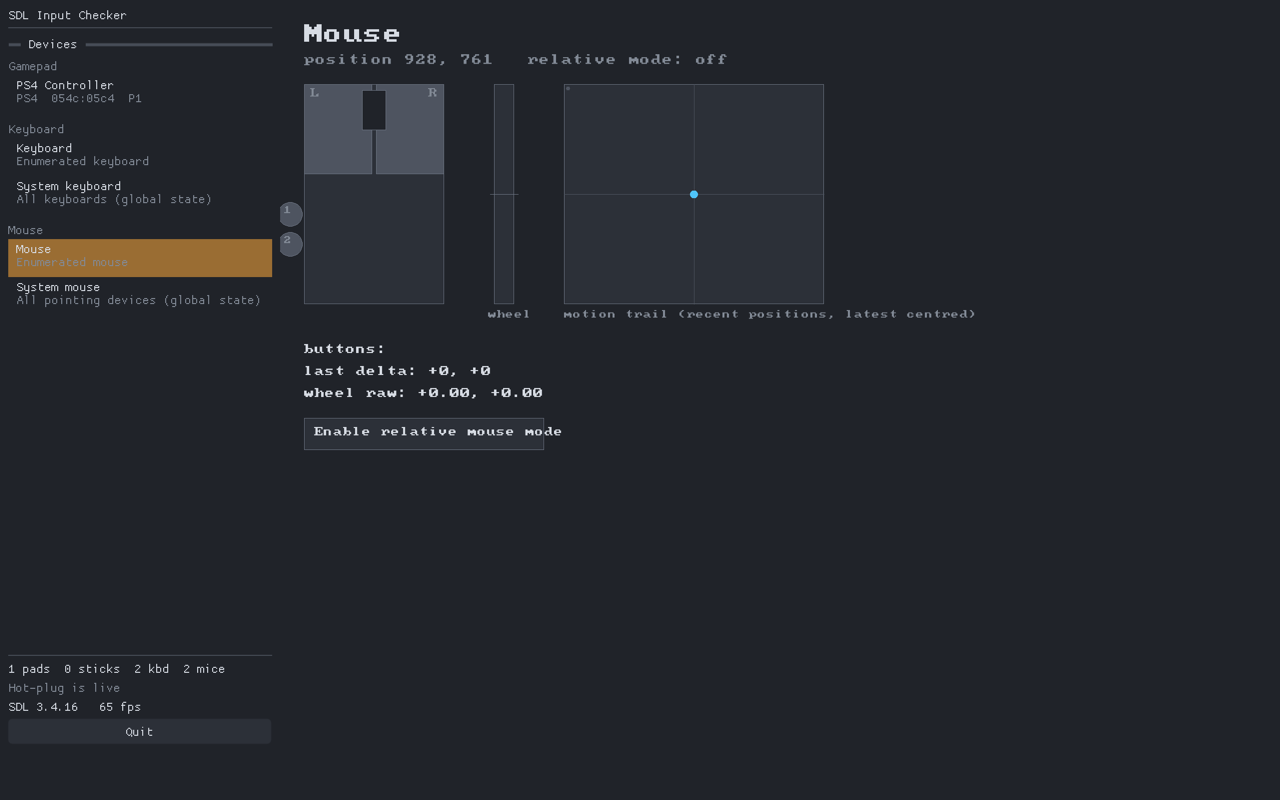
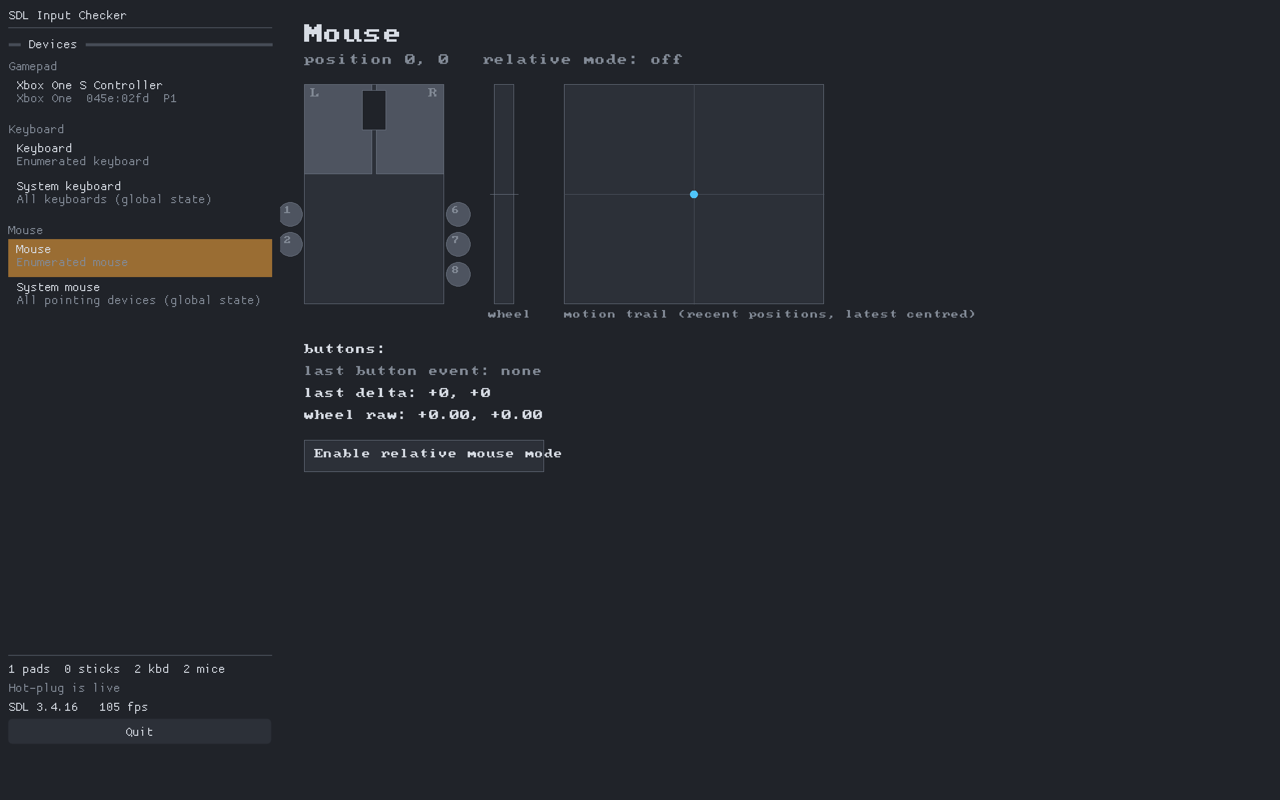
Mouse buttons 6–8, PNG screenshots, refreshed mouse screenshot
SDL3 already includes buttons above X2 in its button state, but the mouse
view only drew L, R, M, X1 and X2. The view now also:

- draws buttons 6, 7 and 8 as circles on the right side of the mouse body
- lists 6/7/8 in the "buttons:" line
- shows the button number of the most recent press/release
  ("last button event: #N down/up"), so higher-numbered buttons and
  per-platform renumbering can be checked

SIC_SCREENSHOT always wrote a BMP, even when the path ended in .png.
It now uses SDL_SavePNG (added in SDL 3.4) unless the path ends in .bmp,
and logs an error if saving fails. The minimum installed SDL3 version
is raised from 3.2 to 3.4 for SDL_SavePNG.

docs/screenshots/final_mouse.png is retaken to show the new buttons.
README and PLAN.md updated to match.

diff --git a/src/views/MouseView.cpp b/src/views/MouseView.cpp
@@ -14,7 +14,11 @@ void MouseView::handleEvent(const SDL_Event& e) {
         state_.onMotion(e.motion);
     } else if (e.type == SDL_EVENT_MOUSE_WHEEL) {
         state_.onWheel(e.wheel);
-    } else if (e.type == SDL_EVENT_MOUSE_BUTTON_DOWN && e.button.button == SDL_BUTTON_LEFT) {
+    } else if (e.type == SDL_EVENT_MOUSE_BUTTON_UP) {
+        state_.onButton(e.button);
+    } else if (e.type == SDL_EVENT_MOUSE_BUTTON_DOWN) {
+        state_.onButton(e.button);
+        if (e.button.button != SDL_BUTTON_LEFT) return;
         const SDL_FPoint p{e.button.x, e.button.y};
         if (p.x >= toggleRect_.x && p.x <= toggleRect_.x + toggleRect_.w && p.y >= toggleRect_.y &&
             p.y <= toggleRect_.y + toggleRect_.h) {
@@ -38,7 +42,8 @@ void MouseView::draw(Canvas& c, const SDL_FRect& a) {
             relativeMode_ ? "on (deltas only, cursor hidden)" : "off");
     y += 30;
 
-    // ---- Silhouette: body + left/right/middle buttons + two side buttons.
+    // ---- Silhouette: body + left/right/middle buttons, X1/X2 on the left side,
+    // and extra buttons 6-8 on the right side.
     const float bodyW = 140, bodyH = 220, bx = x, by = y;
     const bool l = state_.buttons & SDL_BUTTON_LMASK, r = state_.buttons & SDL_BUTTON_RMASK,
                m = state_.buttons & SDL_BUTTON_MMASK, x1 = state_.buttons & SDL_BUTTON_X1MASK,
@@ -59,6 +64,13 @@ void MouseView::draw(Canvas& c, const SDL_FRect& a) {
     c.fillCircle(bx - 14, by + 160, 12, x2 ? colors::accent : colors::idle);
     c.strokeCircle(bx - 14, by + 160, 12, colors::outline);
     c.text(bx - 20, by + 152, "2", x2 ? colors::bg : colors::dim, 1.0f);
+    for (int b = 6; b <= 8; ++b) {
+        const bool on = state_.buttons & SDL_BUTTON_MASK(b);
+        const float cy = by + 130 + (b - 6) * 30;
+        c.fillCircle(bx + bodyW + 14, cy, 12, on ? colors::accent : colors::idle);
+        c.strokeCircle(bx + bodyW + 14, cy, 12, colors::outline);
+        c.textf(bx + bodyW + 8, cy - 8, on ? colors::bg : colors::dim, 1.0f, "%d", b);
+    }
 
     // ---- Wheel meter to the right of the body.
     const float wx = bx + bodyW + 50, wy = by, wh = bodyH;
@@ -91,8 +103,15 @@ void MouseView::draw(Canvas& c, const SDL_FRect& a) {
 
     // ---- Numeric readout + relative-mode toggle.
     float ty = by + bodyH + 40;
-    c.textf(x, ty, colors::text, 1.3f, "buttons: %s%s%s%s%s", l ? "L " : "", r ? "R " : "", m ? "M " : "",
-            x1 ? "X1 " : "", x2 ? "X2 " : "");
+    c.textf(x, ty, colors::text, 1.3f, "buttons: %s%s%s%s%s%s%s%s", l ? "L " : "", r ? "R " : "", m ? "M " : "",
+            x1 ? "X1 " : "", x2 ? "X2 " : "", (state_.buttons & SDL_BUTTON_MASK(6)) ? "6 " : "",
+            (state_.buttons & SDL_BUTTON_MASK(7)) ? "7 " : "", (state_.buttons & SDL_BUTTON_MASK(8)) ? "8 " : "");
+    ty += 22;
+    if (state_.lastButton)
+        c.textf(x, ty, colors::text, 1.3f, "last button event: #%d %s", state_.lastButton,
+                state_.lastButtonDown ? "down" : "up");
+    else
+        c.text(x, ty, "last button event: none", colors::dim, 1.3f);
     ty += 22;
     c.textf(x, ty, colors::text, 1.3f, "last delta: %+.0f, %+.0f", state_.relX, state_.relY);
     ty += 22;

diff --git a/src/app/App.cpp b/src/app/App.cpp
@@ -182,9 +182,13 @@ SDL_AppResult App::iterate() {
     SDL_SetRenderScale(renderer_, 1.0f, 1.0f);
     if (screenshotPath_ && frame_ == screenshotFrame_) {
         if (SDL_Surface* surf = SDL_RenderReadPixels(renderer_, nullptr)) {
-            SDL_SaveBMP(surf, screenshotPath_);
+            // PNG unless the path explicitly asks for .bmp.
+            const size_t len = SDL_strlen(screenshotPath_);
+            const bool bmp = len >= 4 && SDL_strcasecmp(screenshotPath_ + len - 4, ".bmp") == 0;
+            const bool ok = bmp ? SDL_SaveBMP(surf, screenshotPath_) : SDL_SavePNG(surf, screenshotPath_);
             SDL_DestroySurface(surf);
-            SDL_Log("Saved screenshot to %s", screenshotPath_);
+            if (ok) SDL_Log("Saved screenshot to %s", screenshotPath_);
+            else    SDL_Log("Failed to save screenshot to %s: %s", screenshotPath_, SDL_GetError());
         }
         SDL_RenderPresent(renderer_);
         return SDL_APP_SUCCESS;

diff --git a/src/devices/MouseState.h b/src/devices/MouseState.h
@@ -13,10 +13,16 @@ struct MouseState {
     float relX = 0, relY = 0;   // accumulated since last sample()
     float wheelX = 0, wheelY = 0;  // decaying display values
     std::deque<SDL_FPoint> trail;
+    int lastButton = 0;         // SDL button index of the most recent press/release (0 = none yet)
+    bool lastButtonDown = false;
 
     void onMotion(const SDL_MouseMotionEvent& e) {
         relX += e.xrel;
         relY += e.yrel;
+    }
+    void onButton(const SDL_MouseButtonEvent& e) {
+        lastButton = e.button;
+        lastButtonDown = e.down;
     }
     void onWheel(const SDL_MouseWheelEvent& e) {
         wheelX += e.x;

diff --git a/src/app/App.h b/src/app/App.h
@@ -38,7 +38,7 @@ private:
     float time_ = 0.0f;
     int frame_ = 0;
     std::unique_ptr<VirtualJoystick> virtualJs_;
-    const char* screenshotPath_ = nullptr;  // SIC_SCREENSHOT env: save a frame as BMP and quit
+    const char* screenshotPath_ = nullptr;  // SIC_SCREENSHOT env: save a frame as PNG (or BMP for .bmp) and quit
     int screenshotFrame_ = 30;               // SIC_SCREENSHOT_FRAME env
     Uint64 lastTicks_ = 0;
     bool quitRequested_ = false;

diff --git a/README.md b/README.md
@@ -38,7 +38,8 @@ picture of what the selected one is reporting.
   layout, so a non-US layout shows its own characters on the same physical
   positions. Includes a last-key panel (name/scancode/keycode/repeat) and a
   text-input box for checking dead-key and IME composition.
-- **Mouse view**: button state, an XY motion-trail pad, a decaying wheel
+- **Mouse view**: state of up to 8 buttons (L, R, M, X1, X2, 6–8) plus the
+  raw index of the last button event, an XY motion-trail pad, a decaying wheel
   meter, and a toggle for relative (captured) mouse mode.
 
 ## Building
@@ -108,13 +109,13 @@ plugging in hardware, useful for screenshots and quick manual checks:
 | `--virtual` | Attaches an SDL virtual joystick with animated axes/buttons/hat and selects it at startup. |
 | `SIC_SELECT=<kind>` | Auto-selects the first device of the given kind (`gamepad`, `joystick`, `keyboard`, `mouse`) at startup, instead of requiring a sidebar click. |
 | `SIC_WINDOW_SIZE=WxH` | Opens the window at a specific size, e.g. `800x500`, for resize testing. |
-| `SIC_SCREENSHOT=path.bmp` | Saves one frame as a BMP and quits. |
+| `SIC_SCREENSHOT=path.png` | Saves one frame as a PNG (or BMP if the path ends in `.bmp`) and quits. |
 | `SIC_SCREENSHOT_FRAME=N` | Which frame number to save (default 30). |
 
 Example:
 
 ```bash
-SIC_SELECT=gamepad SIC_SCREENSHOT=/tmp/frame.bmp ./build/debug/sdl-input-checker --virtual
+SIC_SELECT=gamepad SIC_SCREENSHOT=/tmp/frame.png ./build/debug/sdl-input-checker --virtual
 ```
 
 ## Project layout

diff --git a/PLAN.md b/PLAN.md
@@ -89,7 +89,7 @@ Common: each view draws into a fixed 1280×800 logical canvas with the sidebar r
   - a mapping-info box showing SDL's mapping string and whether it came from the built-in DB, a hint, or the OS.
 - **JoystickView** — no assumptions: one horizontal bar per axis, a grid of button squares, one 9-way indicator per hat, ball deltas. This is also the "raw" tab for a gamepad.
 - **KeyboardView** — draw a full ANSI layout (rows defined in a small table of `{scancode, x, y, w, h, label}`), highlight pressed keys, show modifier state, a "last key" panel (name, scancode, keycode, repeat flag), and a text-input box to verify IME/dead-key output. Rendering keys by scancode keeps the physical layout correct on non-US keyboards while labels can come from `SDL_GetKeyFromScancode` to reflect the OS layout.
-- **MouseView** — mouse silhouette with five buttons lit, wheel meter that decays, an XY pad drawing the motion trail, numeric read-out of position and last delta, and a toggle for `SDL_SetWindowRelativeMouseMode` to test raw/captured motion.
+- **MouseView** — mouse silhouette with up to eight buttons lit (L, R, M, X1, X2, 6–8), wheel meter that decays, an XY pad drawing the motion trail, numeric read-out of position and last delta, and a toggle for `SDL_SetWindowRelativeMouseMode` to test raw/captured motion.
 
 Input focus rule: when a gamepad is selected, disable ImGui gamepad navigation so all pad input reaches the view; keyboard/mouse still drive the sidebar.
 
